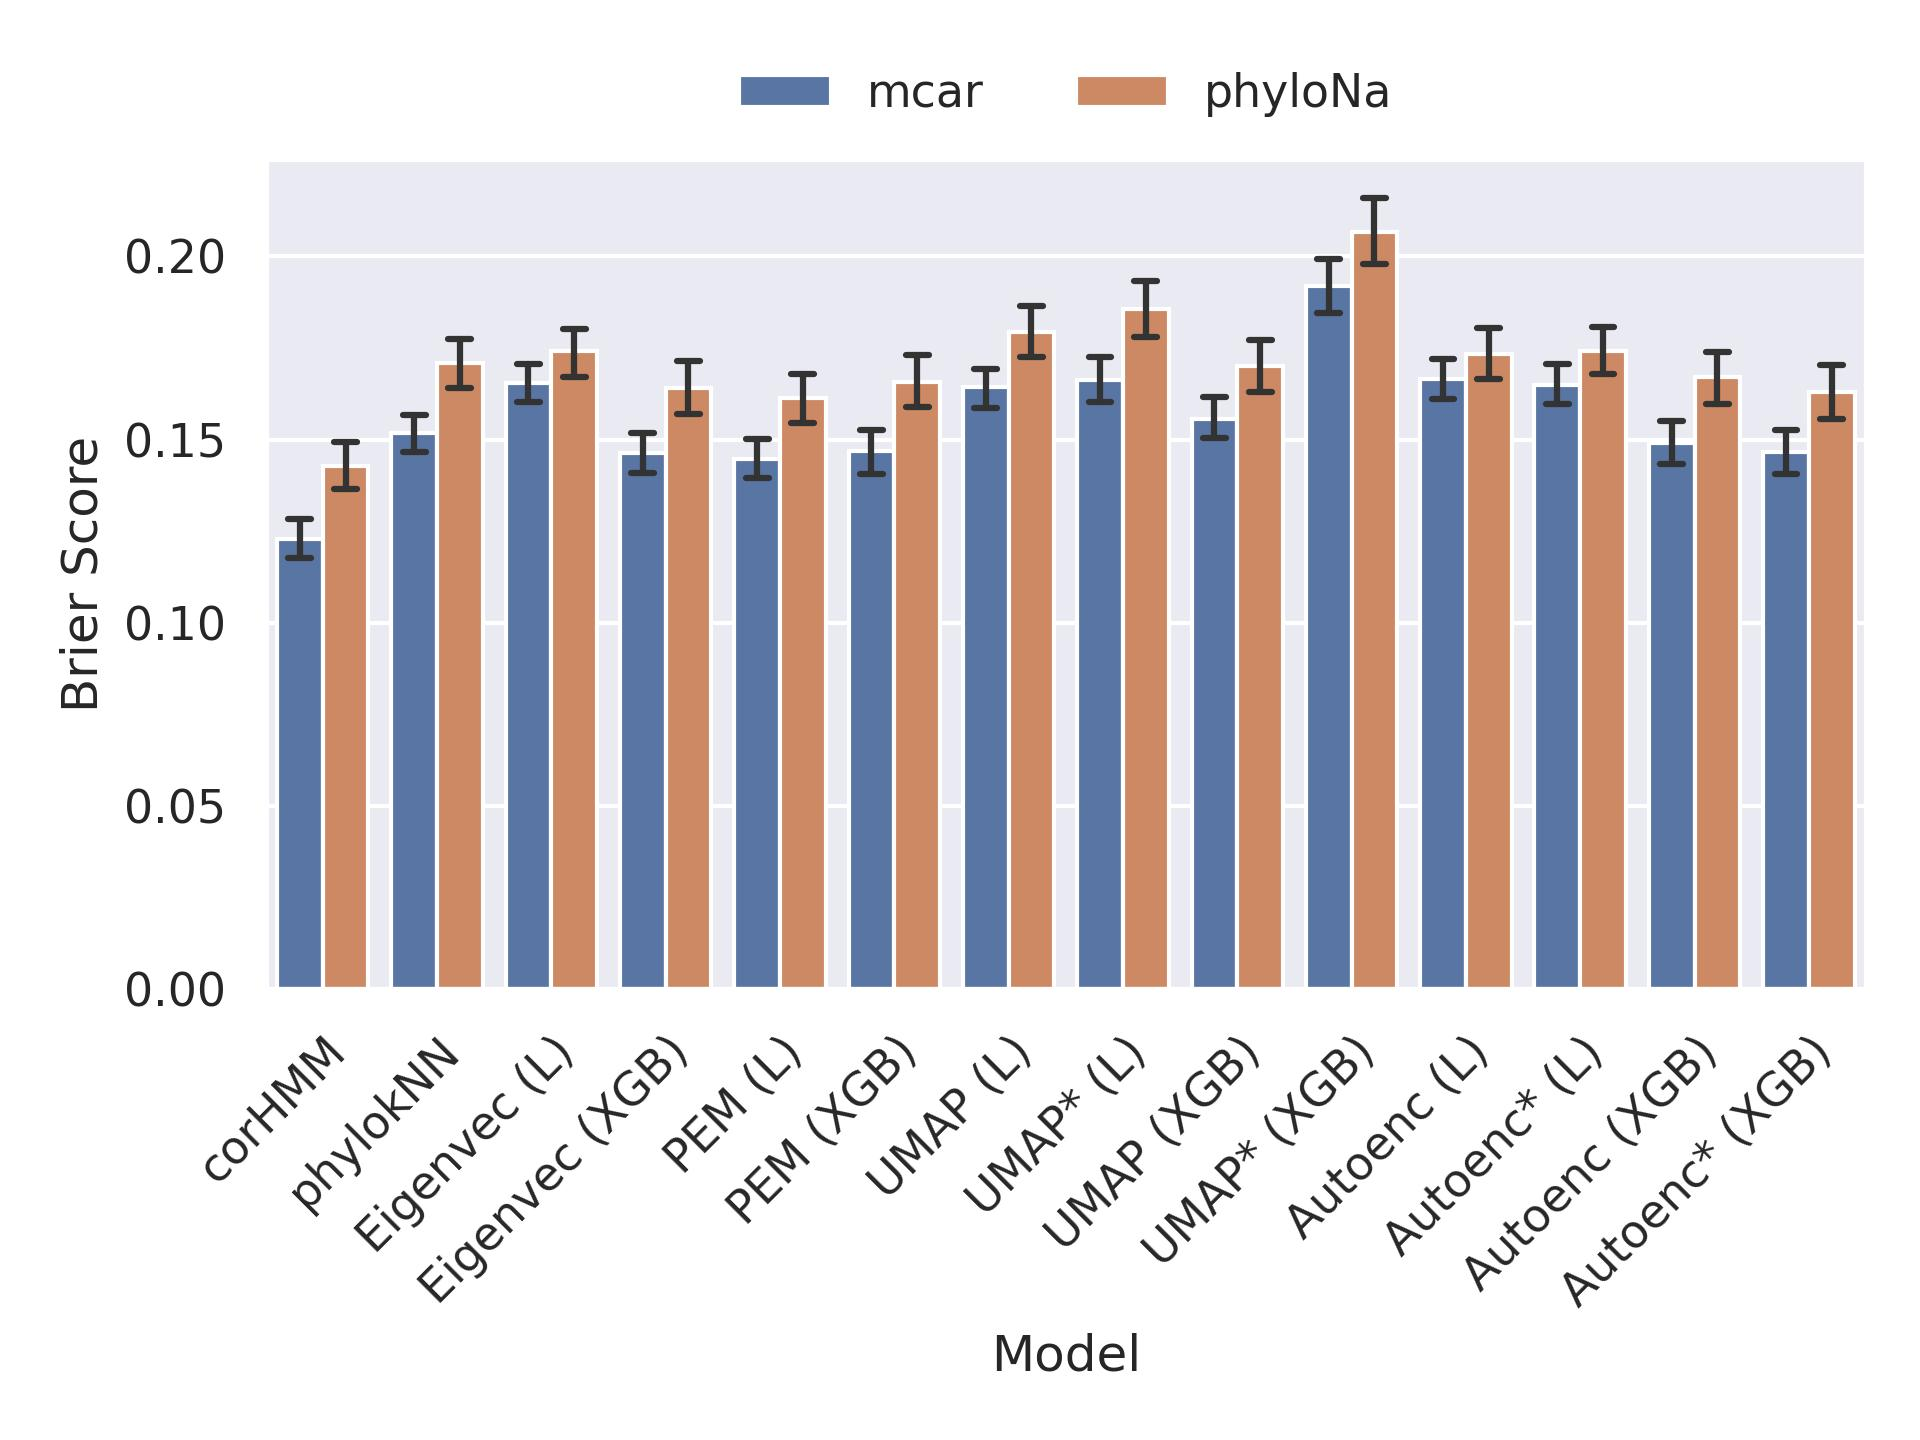
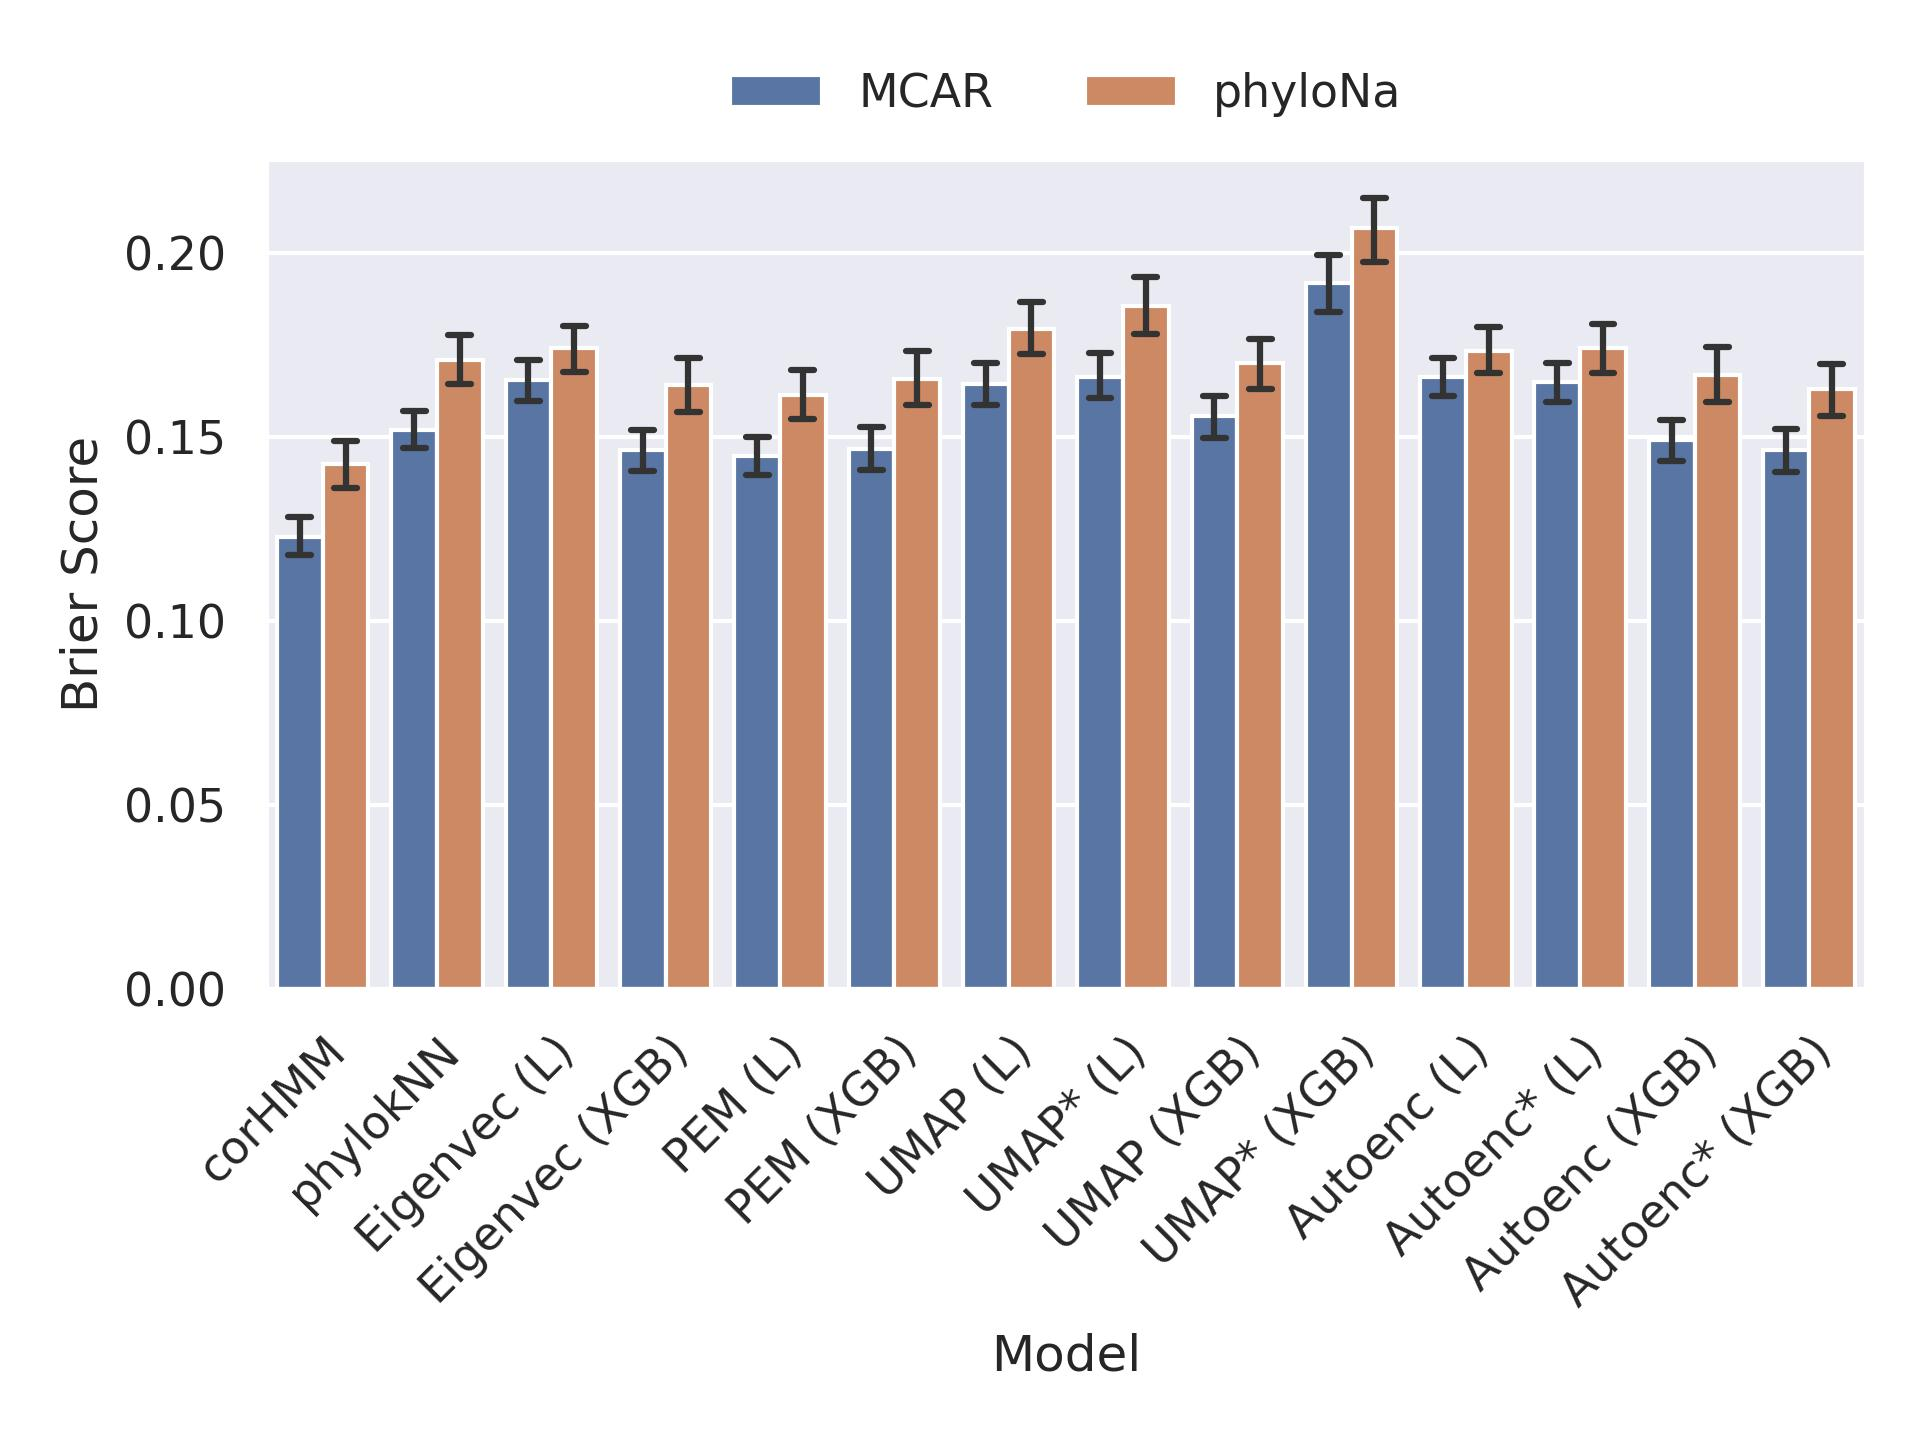
Capitalise MCAR

diff --git a/evaluation/compare_types.py b/evaluation/compare_types.py
@@ -22,6 +22,8 @@ def plot_binary_and_continuous_cases(bin_df, cont_df, group, out_dir):
     ## do a useful plot
     ## Turn  Model columns into useful row values
     p_df = pd.melt(bin_df, id_vars=group, value_vars=bin_model_names, var_name='Model', value_name='Brier Score')
+    if 'Missing Type' in p_df.columns:
+        p_df['Missing Type'] = p_df['Missing Type'].map({'mcar': 'MCAR'}).fillna(p_df['Missing Type'])
     # p_df['Ev Model'] = p_df['Ev Model'].map(
     #     {'simulations': 'ARD/SYM/ER', 'Extinct_BMT': 'BMT †', 'real_data': 'Clonality'}).fillna(p_df['Ev Model'])
     p_df['Model'] = p_df['Model'].map(rename_models_and_ev_models).fillna(p_df['Model'])
@@ -61,6 +63,8 @@ def plot_binary_and_continuous_cases(bin_df, cont_df, group, out_dir):
     # p_df['Ev Model'] = p_df['Ev Model'].map(
     #     {'simulations': 'BM/OU', 'Extinct_BMT': 'BMT †', 'real_data': 'Seed Mass'}).fillna(p_df['Ev Model'])
     p_df['Model'] = p_df['Model'].map(rename_models_and_ev_models).fillna(p_df['Model'])
+    if 'Missing Type' in p_df.columns:
+        p_df['Missing Type'] = p_df['Missing Type'].map({'mcar': 'MCAR'}).fillna(p_df['Missing Type'])
     if group == 'Ev Model':
         ev_order = simulation_types['continuous']
         p_df = p_df.sort_values(by="Ev Model", key=lambda column: column.map(lambda e: ev_order.index(e)))
